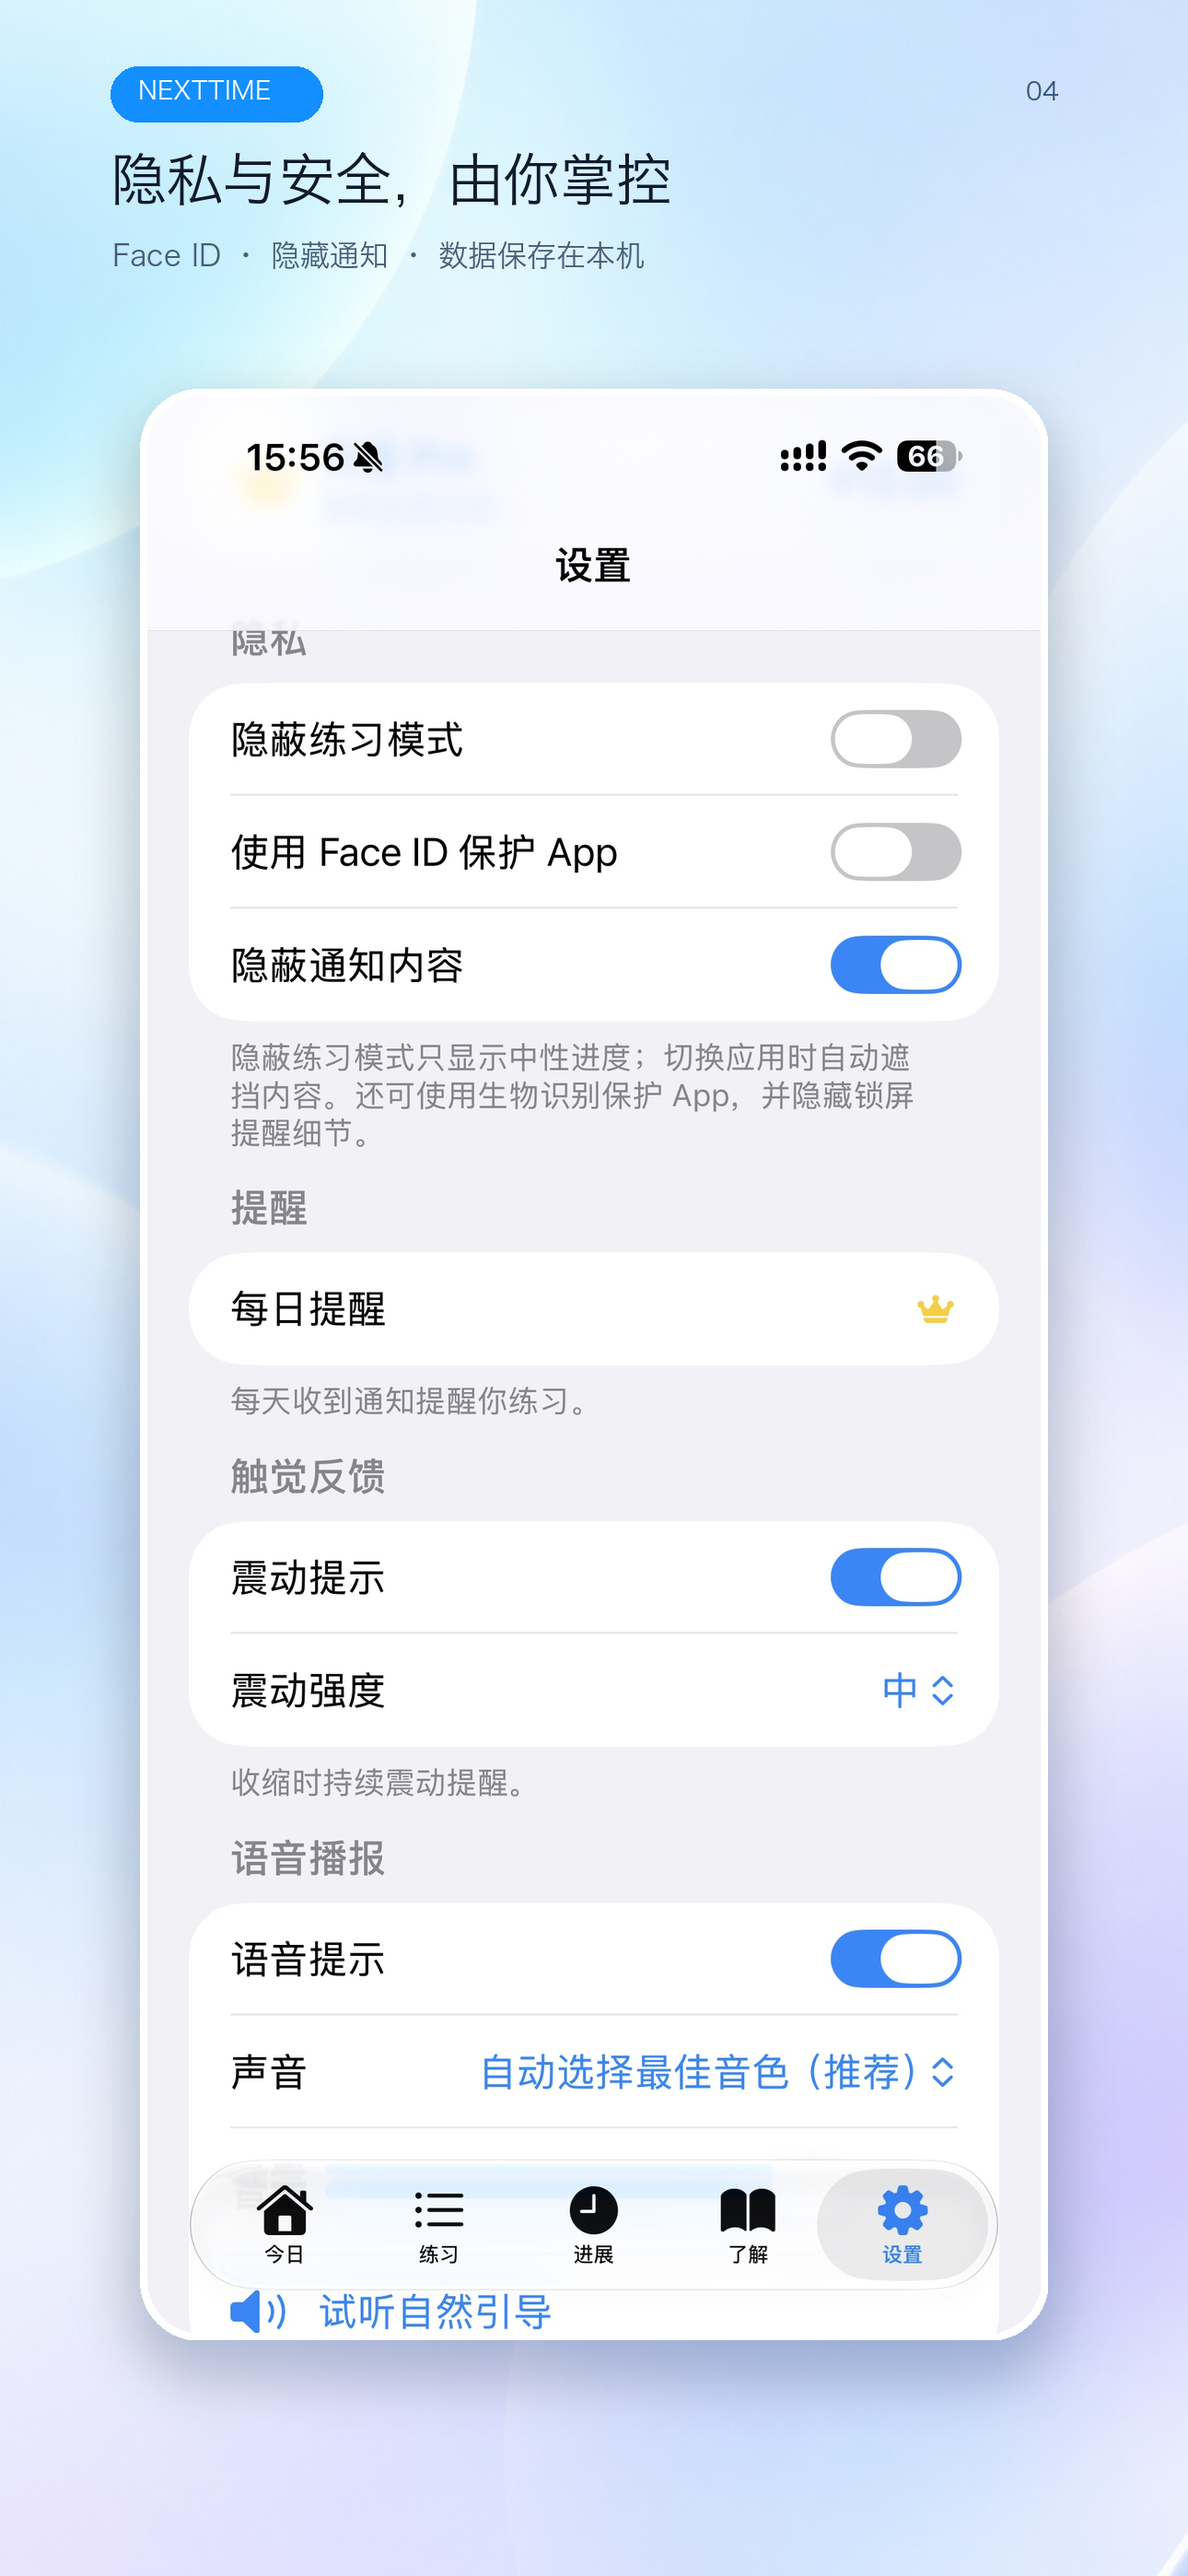
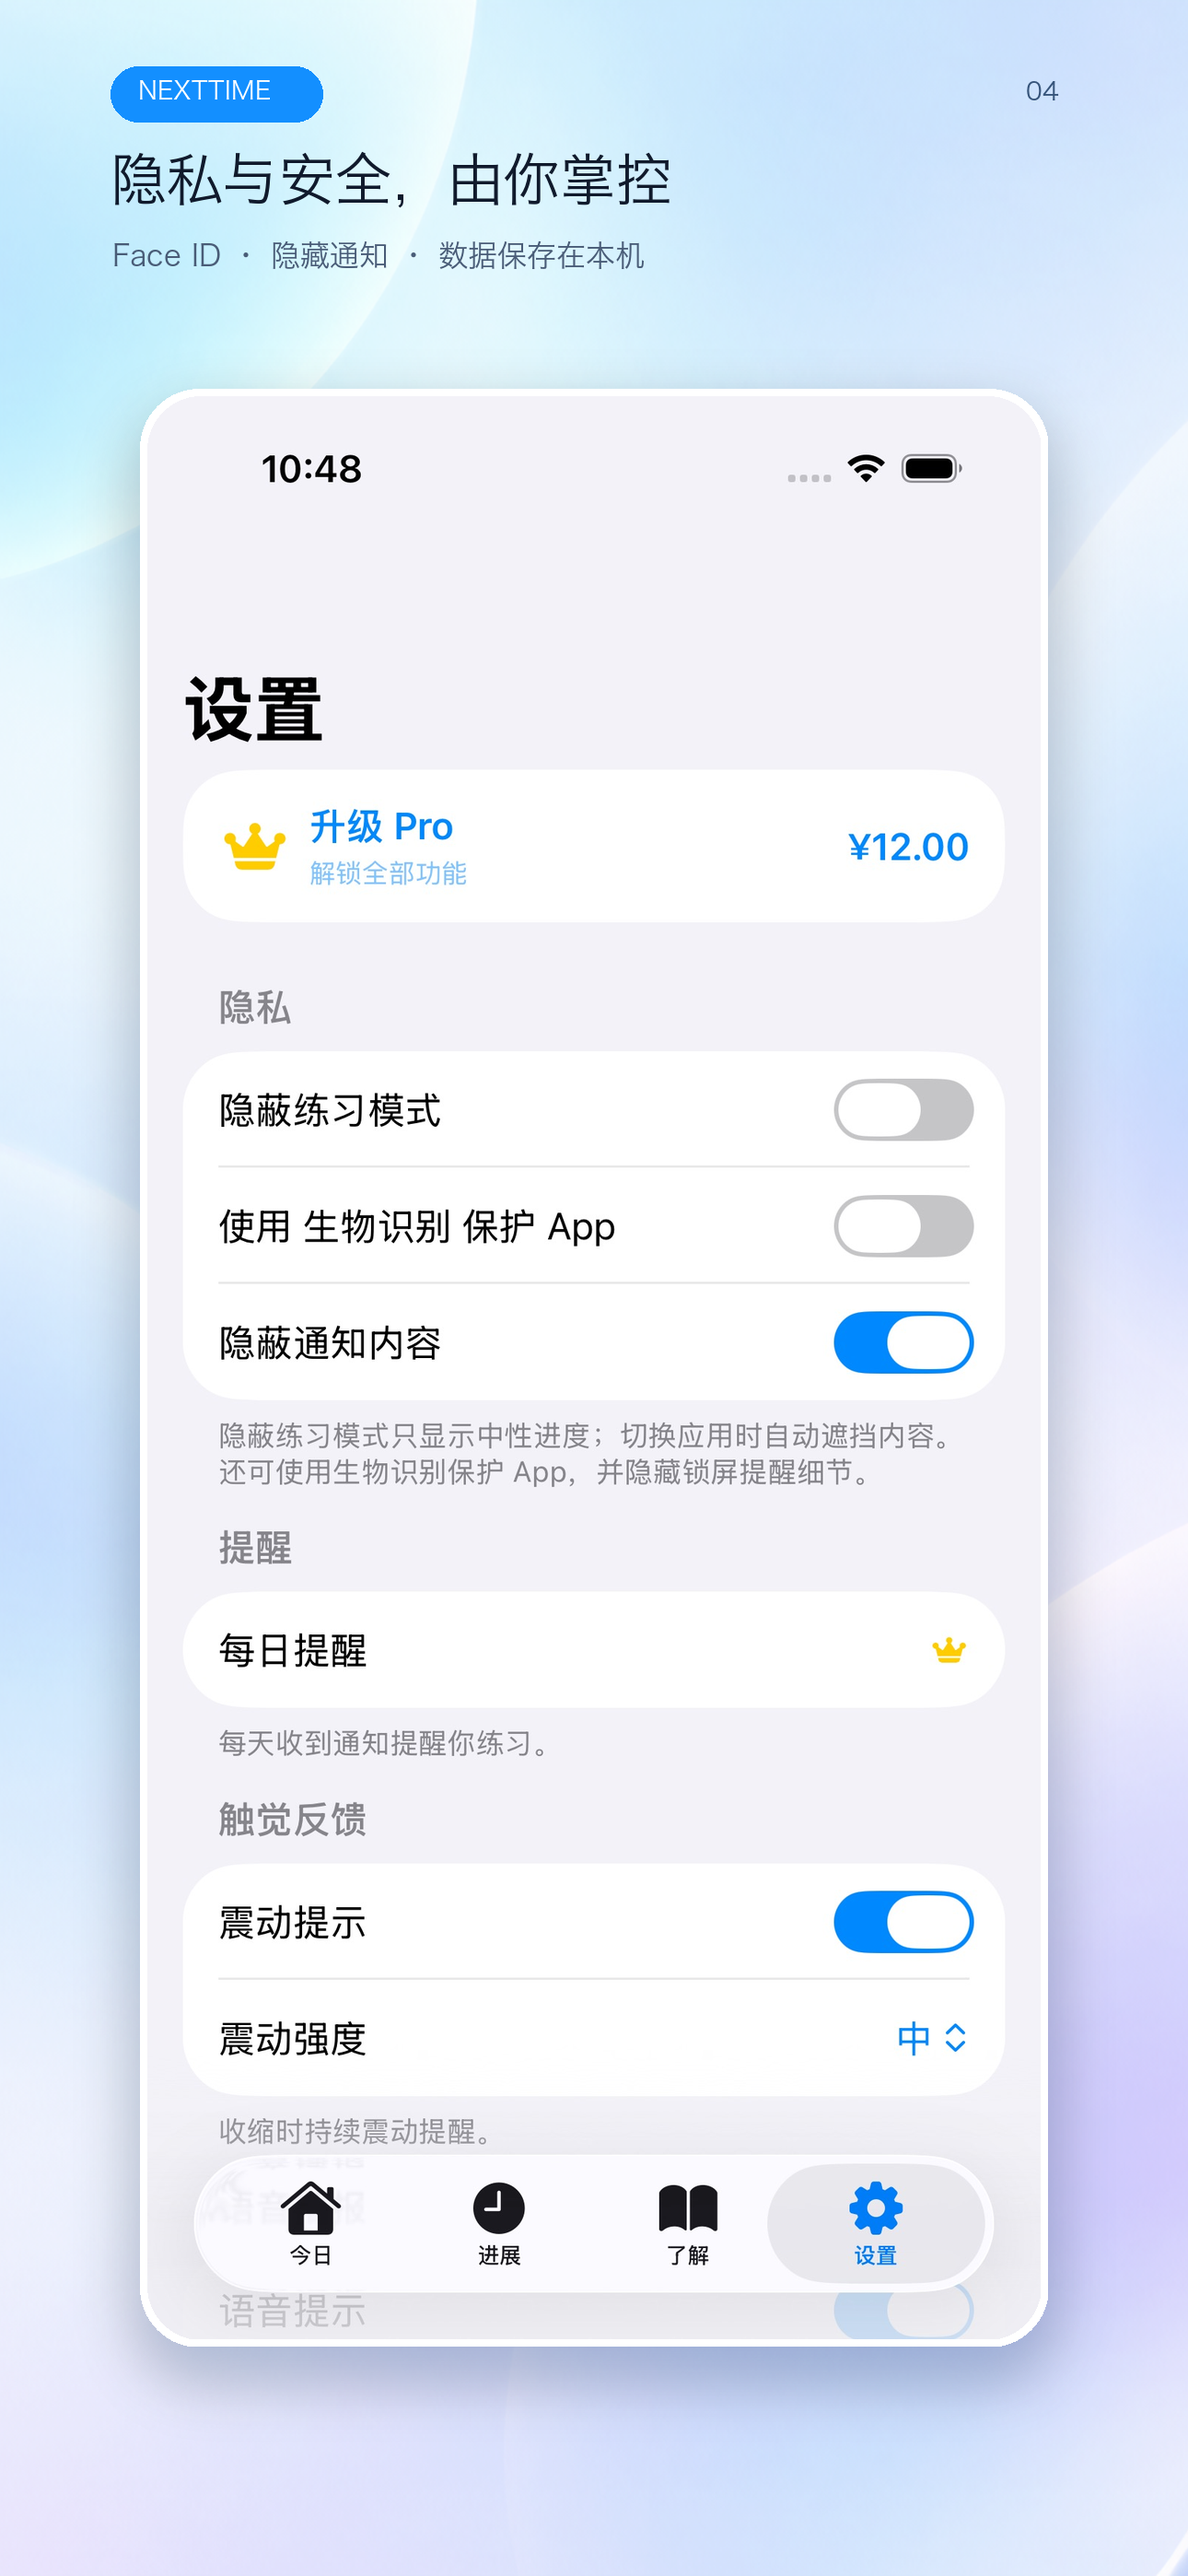
release: prepare personal training screenshots for 1.3.6

diff --git a/NextTime/NextTime/Views/HistoryView.swift b/NextTime/NextTime/Views/HistoryView.swift
@@ -211,7 +211,7 @@ struct RecordRow: View {
                 .font(.title3)
 
             VStack(alignment: .leading, spacing: 4) {
-                Text(record.programName)
+                Text(localizedProgramName)
                     .font(.headline)
 
                 HStack(spacing: 8) {
@@ -247,6 +247,13 @@ struct RecordRow: View {
         let formatter = DateFormatter()
         formatter.timeStyle = .short
         return formatter.string(from: date)
+    }
+
+    private var localizedProgramName: String {
+        guard let program = TrainingData.personalPrograms.first(where: { $0.id == record.programId }) else {
+            return record.programName
+        }
+        return NSLocalizedString(program.localizedNameKey, comment: "")
     }
 }
 

diff --git a/NextTime/NextTimeUITests/NextTimeUITests.swift b/NextTime/NextTimeUITests/NextTimeUITests.swift
@@ -102,11 +102,16 @@ final class NextTimeUITests: XCTestCase {
         app.launchArguments += [
             "--store-screenshot-seed",
             "--store-screenshot-pro",
+            "--store-screenshot-price-cn",
+            "-AppleInterfaceStyle", "Light",
             "-AppleLanguages", "(zh-Hans)",
             "-AppleLocale", "zh_CN"
         ]
         app.launch()
 
+        XCTAssertTrue(app.tabBars.firstMatch.waitForExistence(timeout: 8))
+        app.terminate()
+        app.launch()
         XCTAssertTrue(app.tabBars.firstMatch.waitForExistence(timeout: 8))
         XCTAssertTrue(app.buttons["home.start-today"].waitForExistence(timeout: 5))
         snapshot("01-today-practice")

diff --git a/NextTime/NextTime/Services/ProManager.swift b/NextTime/NextTime/Services/ProManager.swift
@@ -176,6 +176,11 @@ class ProManager: ObservableObject {
 
     // MARK: - 获取价格显示
     var priceDisplayString: String {
+        #if DEBUG
+        if ProcessInfo.processInfo.arguments.contains("--store-screenshot-price-cn") {
+            return "¥12.00"
+        }
+        #endif
         guard let product = products.first else {
             return "¥25"
         }

diff --git a/NextTime/NextTime/NextTimeApp.swift b/NextTime/NextTime/NextTimeApp.swift
@@ -30,6 +30,11 @@ struct NextTimeApp: App {
         WindowGroup {
             RootView()
                 .environmentObject(appLockManager)
+                .preferredColorScheme(
+                    ProcessInfo.processInfo.arguments.contains("--store-screenshot-seed")
+                        ? .light
+                        : nil
+                )
         }
     }
 

diff --git a/scripts/compose_app_store_screenshots.py b/scripts/compose_app_store_screenshots.py
@@ -13,22 +13,22 @@ FONT = "/System/Library/Fonts/Hiragino Sans GB.ttc"
 
 SHOTS = [
     (
-        "01-natural-guidance.png",
+        "01-today-practice.png",
+        SOURCE_DIR / "today.jpg",
+        "打开就知道，今天练什么",
+        "一键开始 · 每天只做当前这一项",
+    ),
+    (
+        "02-natural-guidance.png",
         SOURCE_DIR / "guidance.jpg",
-        "跟着自然引导，每天练几分钟",
-        "呼吸、收缩与放松节奏更清楚",
+        "像正常说话一样自然引导",
+        "呼吸、放松与动作节奏更清楚",
     ),
     (
-        "02-twenty-four-courses.png",
-        SOURCE_DIR / "courses.jpg",
-        "24 节课程，循序渐进",
-        "控制、放松、耐力与恢复路线",
-    ),
-    (
-        "03-six-week-plan.png",
-        SOURCE_DIR / "home.jpg",
-        "6 周计划，建立长期习惯",
-        "每天一小步 · 本地记录 · 避开近期重复",
+        "03-personal-progress.png",
+        SOURCE_DIR / "progress.jpg",
+        "18 节个人训练，循序渐进",
+        "3 条个人路线 · 6 周计划 · 避开近期重复",
     ),
     (
         "04-local-privacy.png",
@@ -40,7 +40,7 @@ SHOTS = [
         "05-one-time-pro.png",
         SOURCE_DIR / "pro.jpg",
         "一次买断，终身解锁",
-        "20 节进阶课 · 自定义训练 · 详细统计",
+        "完整个性化计划 · 自定义训练 · 详细统计",
     ),
 ]
 

diff --git a/design/app-store/README.md b/design/app-store/README.md
@@ -1,6 +1,8 @@
 # App Store screenshot kit
 
-The five source screenshots in `source/` were captured from the current Chinese app UI.
+The five active source screenshots in `source/` (`today.jpg`, `guidance.jpg`,
+`progress.jpg`, `settings.jpg`, and `pro.jpg`) were captured from the current
+Chinese app UI in light mode.
 `marketing-background.png` was generated as a text-free brand background. The final,
 App Store-ready PNG files live in `fastlane/screenshots/zh-Hans/`.
 
